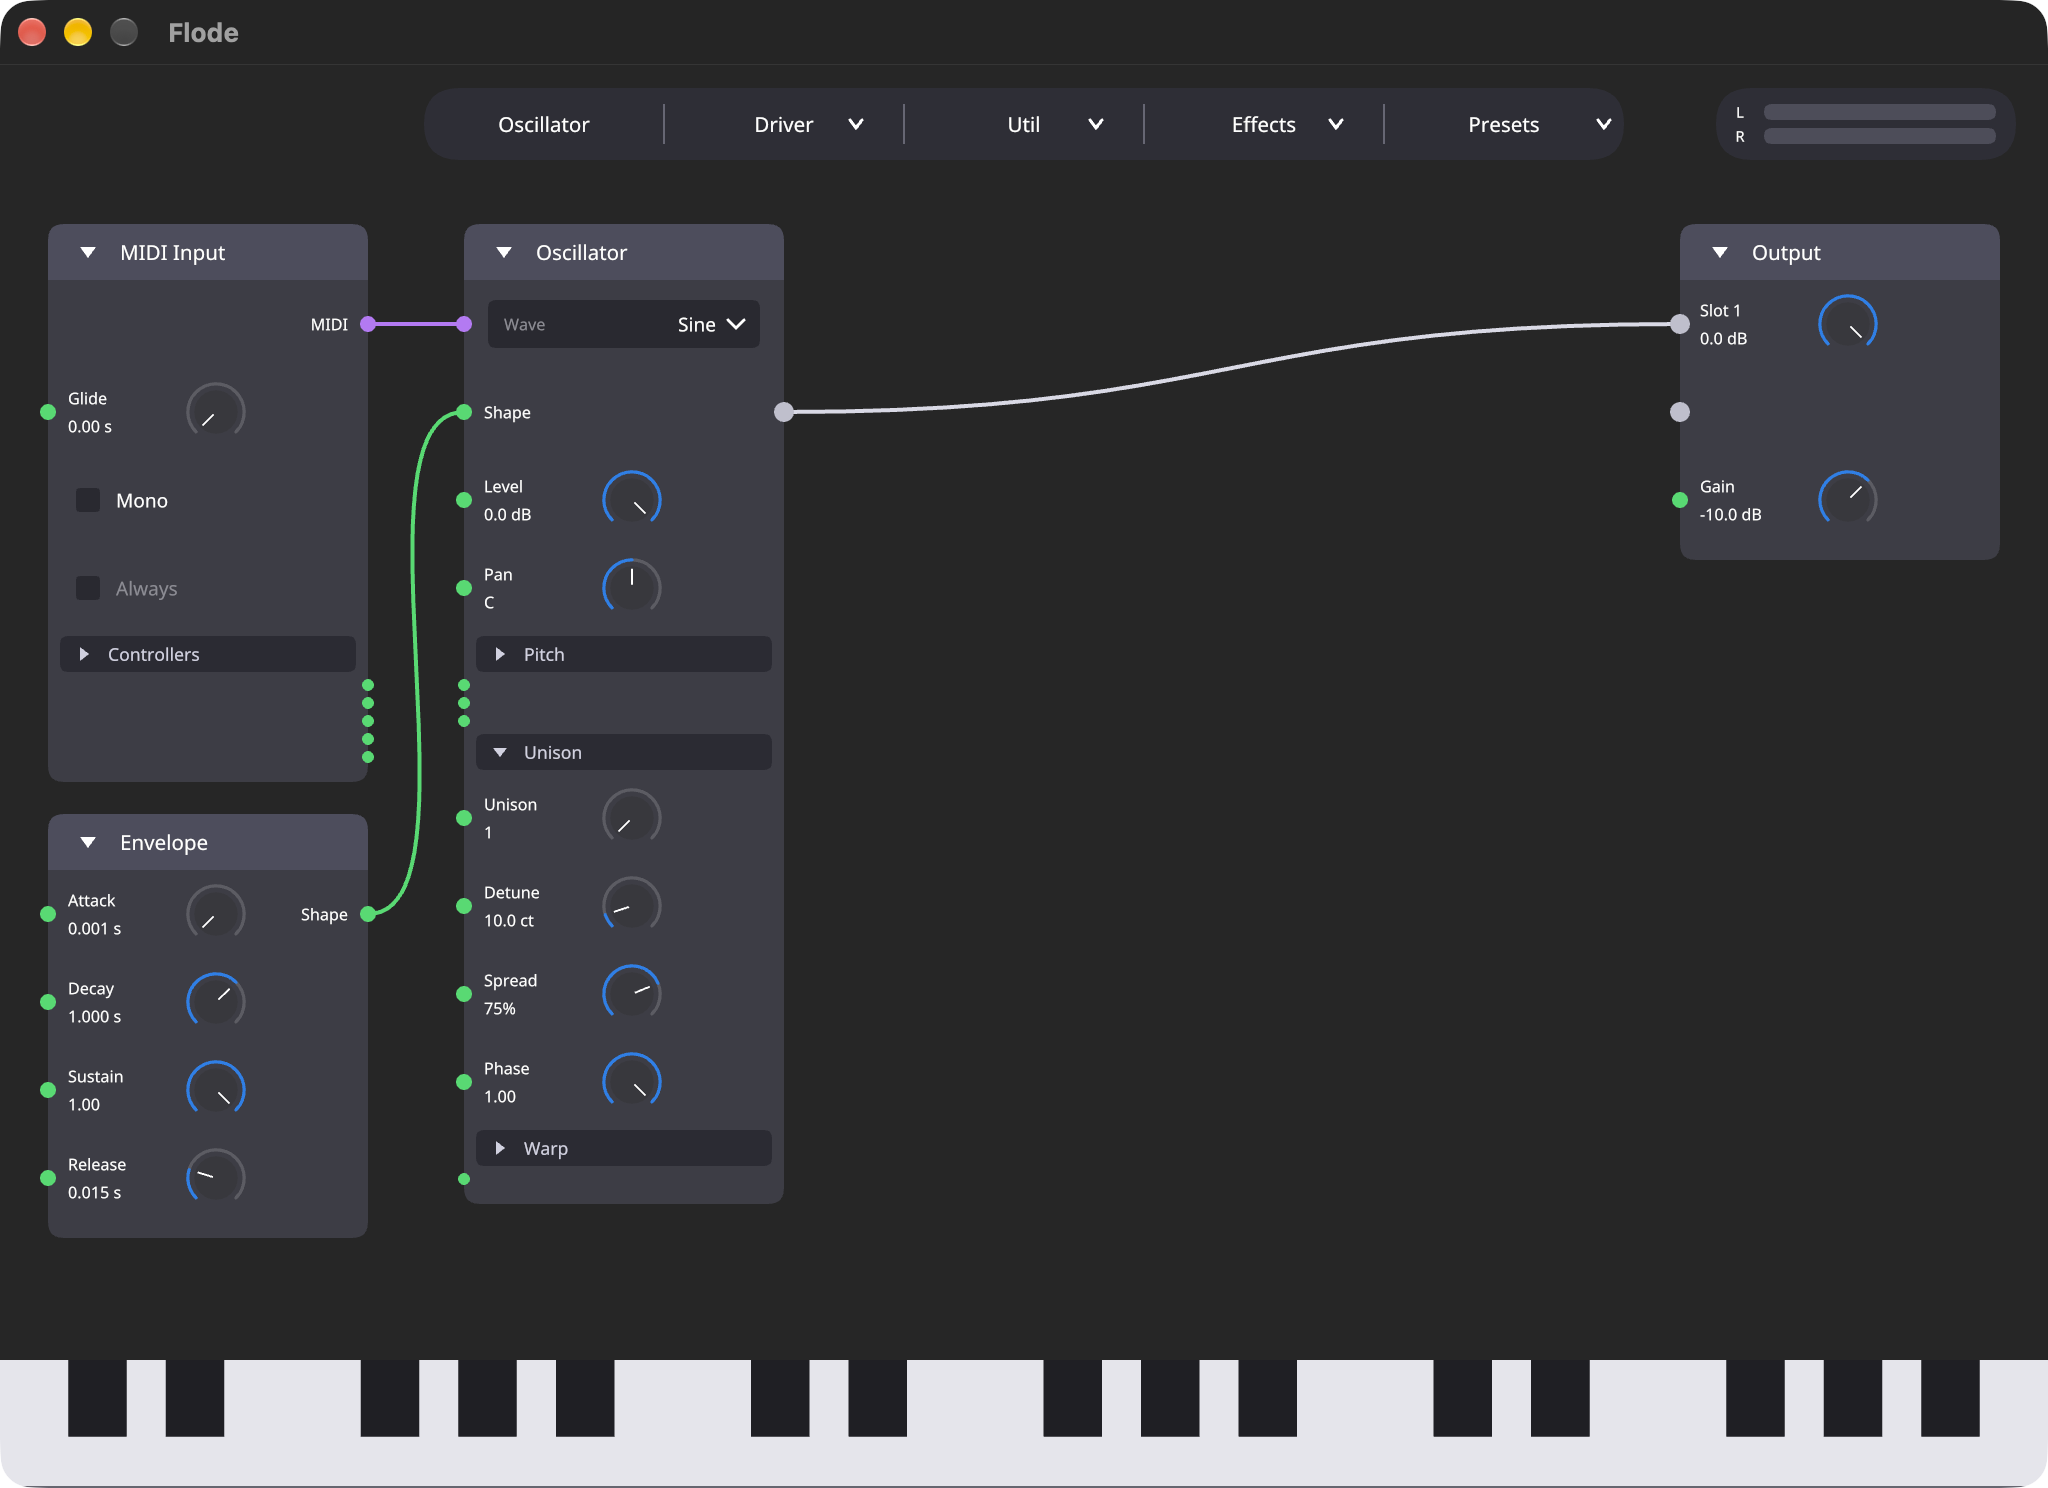
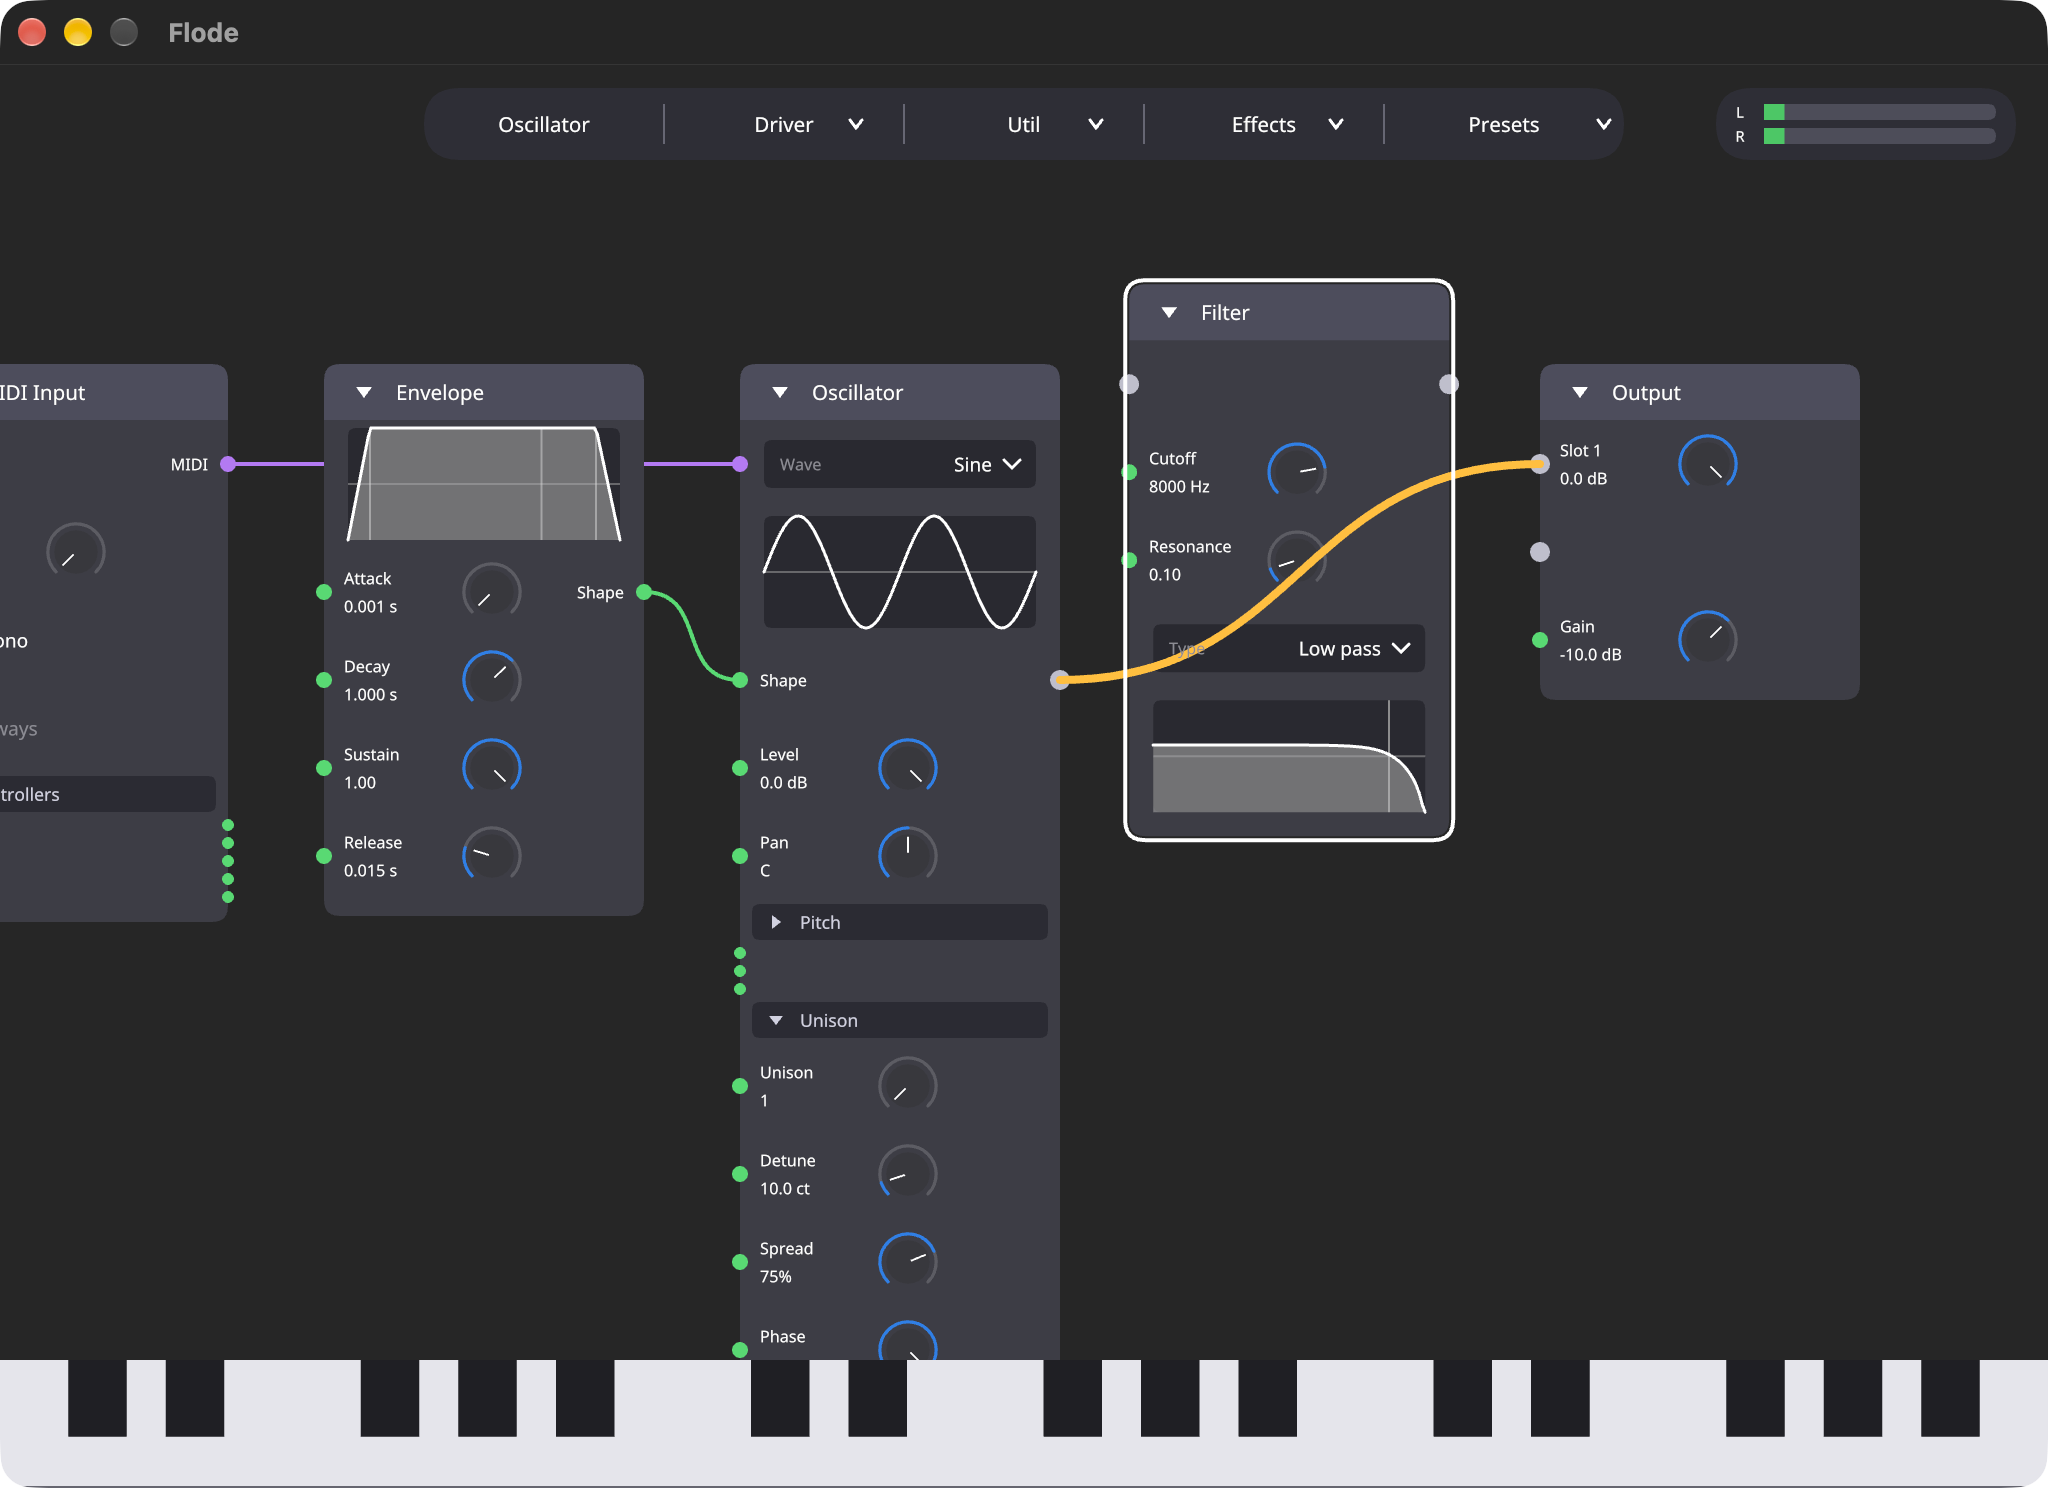
Fit the factory presets around the viewers and retake the screenshots
The viewers make four node kinds taller. The factory gap is 12 px, three presets run under the key strip, and the fit test now needs only each node's top in view. The README describes the viewers.

diff --git a/src/editor/factory/mod.rs b/src/editor/factory/mod.rs
@@ -49,7 +49,7 @@ pub(super) fn all() -> Vec<Preset> {
 const COLUMN_X: [f32; 5] = [24.0, 224.0, 424.0, 624.0, 840.0];
 /// Where the top node of a column sits, and the gap between stacked nodes.
 const TOP: f32 = 80.0;
-const GAP: f32 = 16.0;
+const GAP: f32 = 12.0;
 
 /// The column of the MIDI input and the amplitude envelope.
 pub(super) const CONTROLS: usize = 0;
@@ -361,7 +361,9 @@ mod tests {
         }
     }
 
-    /// Every node is inside the default window, above the key strip, and none overlaps another.
+    /// Every node is inside the default window's width, none overlaps another, and each node's
+    /// header and first row sit above the key strip. The viewers make some nodes tall enough that
+    /// the bottom of a node can run under the keys, and the canvas pans to reach it.
     #[test]
     fn every_preset_fits_the_window() {
         let strip_top = 712.0 - crate::editor::piano::STRIP_HEIGHT;
@@ -375,8 +377,11 @@ mod tests {
                     preset.name
                 );
                 assert!(
-                    a.y + a.height <= strip_top,
-                    "{}: node {i} reaches the keys",
+                    a.y + a
+                        .height
+                        .min(crate::nodes::HEADER_HEIGHT + crate::nodes::ROW_PITCH)
+                        <= strip_top,
+                    "{}: node {i} starts under the keys",
                     preset.name
                 );
                 for b in &bounds[i + 1..] {

diff --git a/README.md b/README.md
@@ -53,6 +53,11 @@ Flode is not affiliated with Blender or the Blender Foundation.
 controllers driving knobs), and purple is MIDI notes. A wire only joins ports of the same kind.
 A knob with a green pin can be driven by any control wire, and it then shows the live value.
 
+**Viewers.** The oscillator, envelope, LFO and filter each draw a small picture of their shape: the
+waveform, the ADSR curve, and the filter's response from 20 Hz to 20 kHz. The picture follows the
+knobs. It also follows a wire that drives a knob, so a filter with an LFO on its cutoff shows the
+curve sweeping.
+
 **Editing.**
 
 - Click a node header to select it and drag it to move it. Drag a node onto a wire to splice it in.
